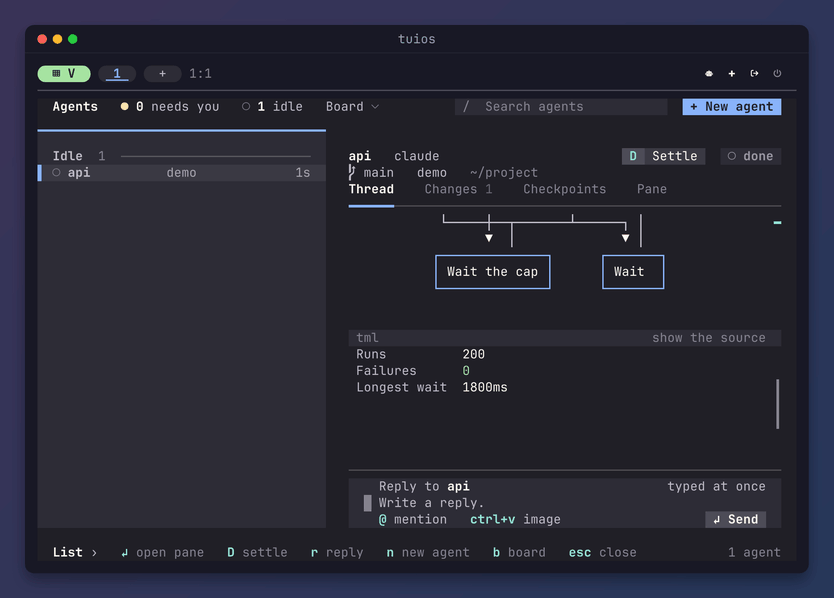
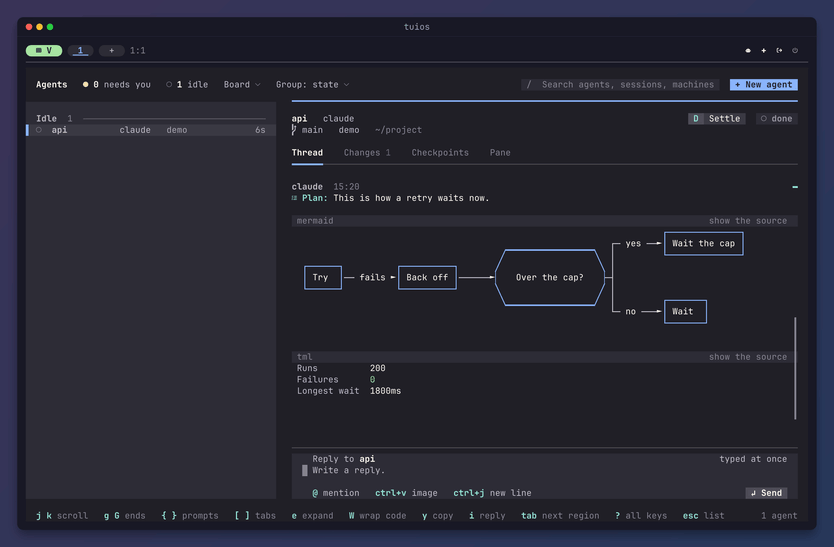
docs(media): show the whole diagram reply in the blog frame

diff --git a/media/scenes/blog-thread-diagrams/reply.md b/media/scenes/blog-thread-diagrams/reply.md
@@ -6,8 +6,6 @@ flowchart LR
   B --> C{Over the cap?}
   C -->|yes| D[Wait the cap]
   C -->|no| E[Wait]
-  D --> A
-  E --> A
 ```
 
 ```tml
